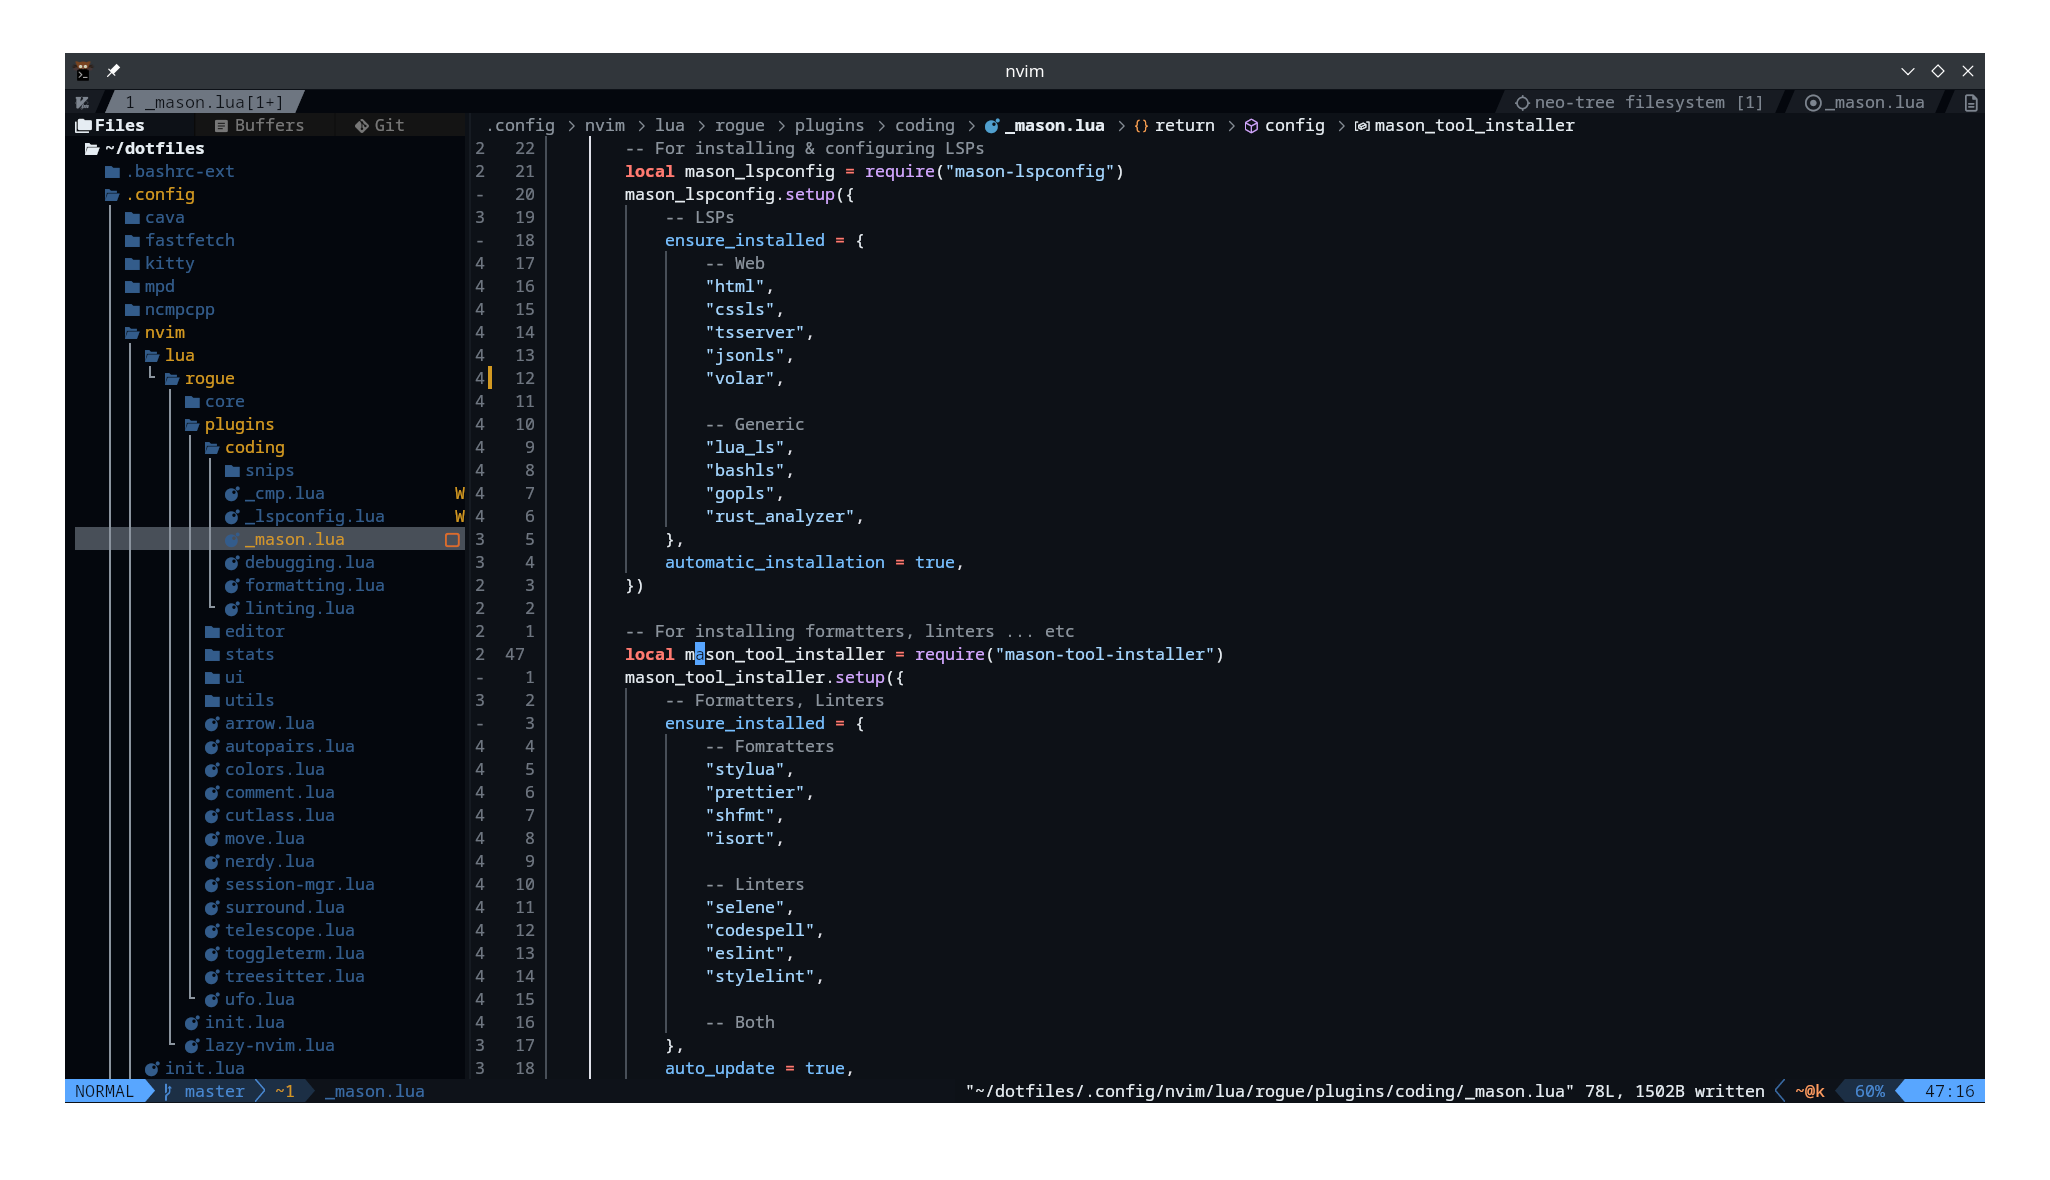
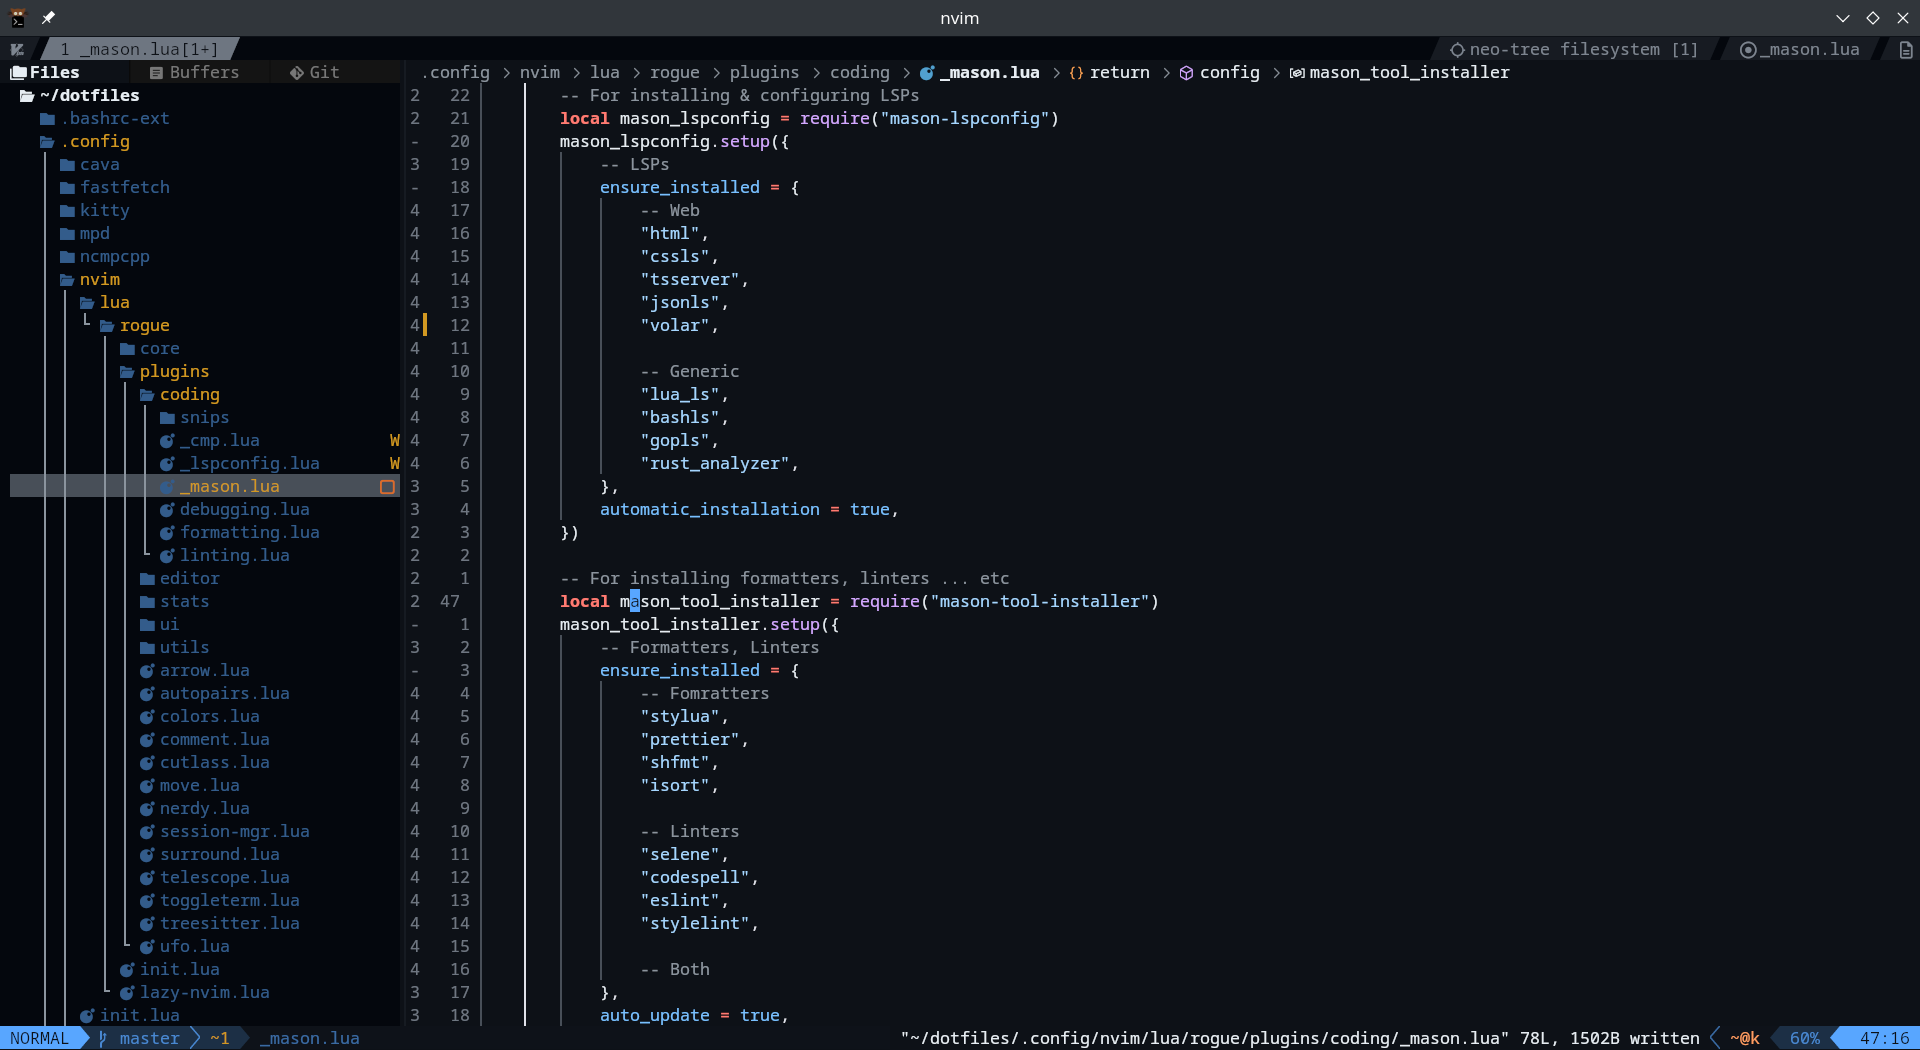
update readme

Changed region(s): [[0.0, 0.0, 1.0, 1.0]]

diff --git a/readme.md b/readme.md
@@ -2,11 +2,15 @@
 
 ### Neovim config
 
-![neovim cofnig preview](./readme-stuff/nvim-config.png)
+<div style=" background-color: #000; display: flex; justify-content: center; padding: 20px">
+    <img src="./readme-stuff/nvim-config.png" style="border: solid 2px #313739;">
+</div>
 
 #### Look at that sweet sweet startup time :p
 
-![nvim startup time](./readme-stuff/nvim-startup-time.png)
+<div style=" background-color: #000; display: flex; justify-content: center; padding: 20px">
+    <img src="./readme-stuff/nvim-startup-time.png" style="border: solid 2px #313739;">
+</div>
 
 ## Setup
 
